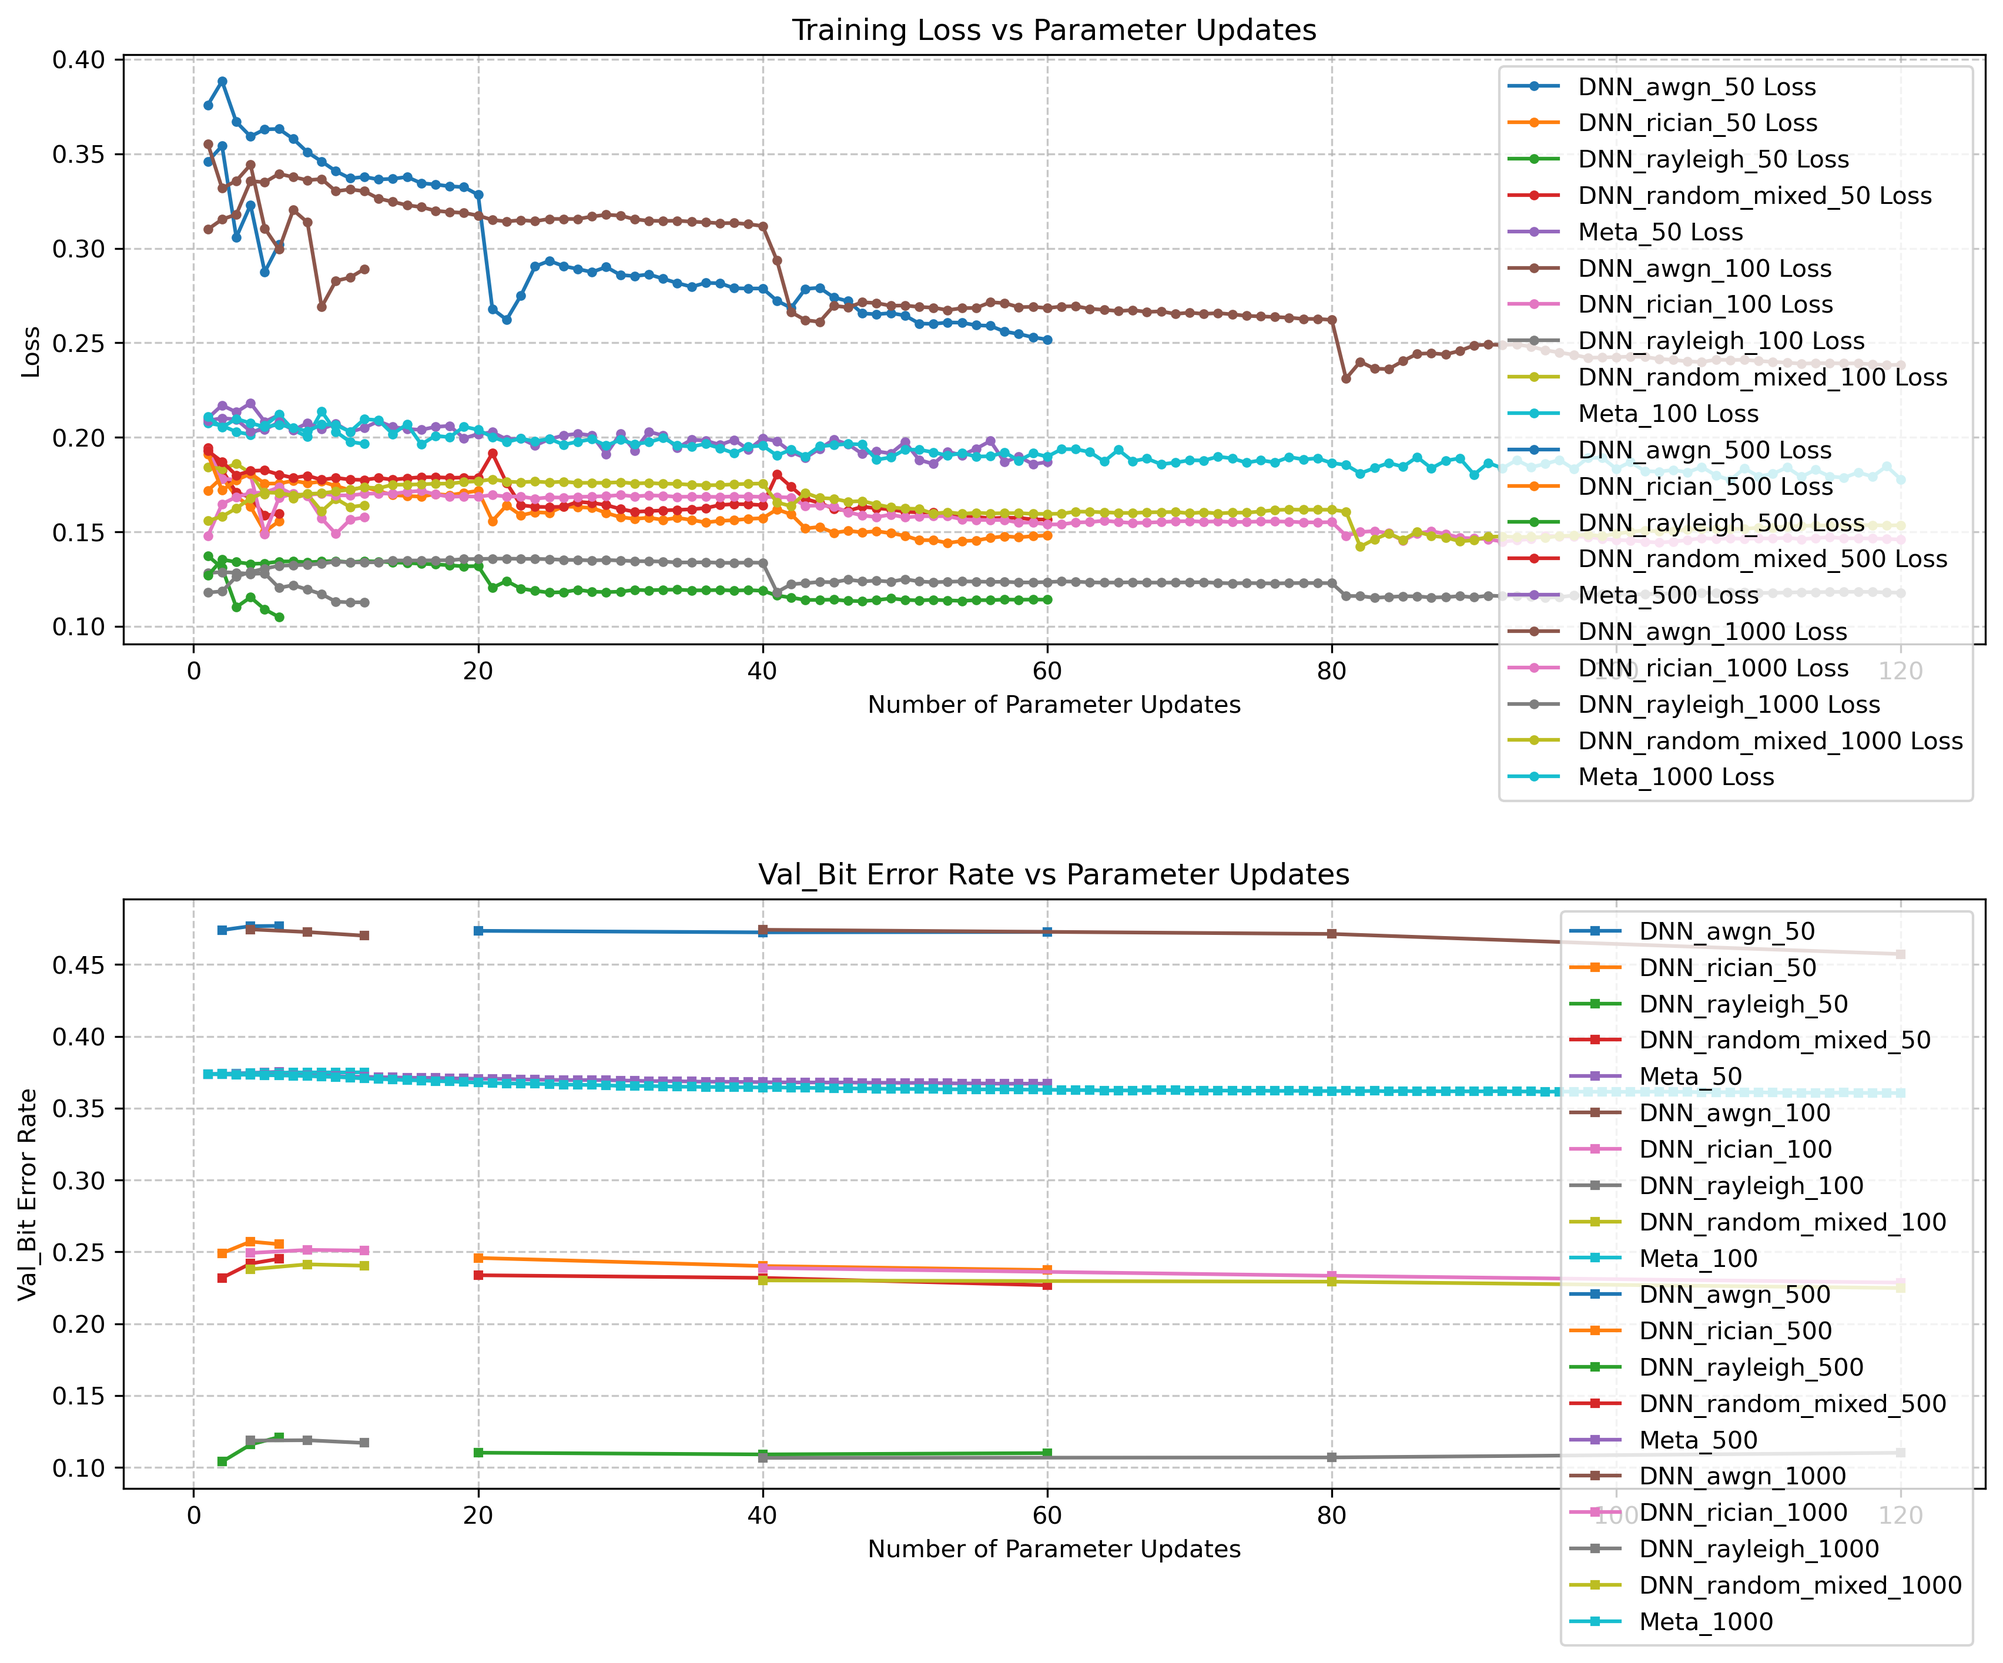
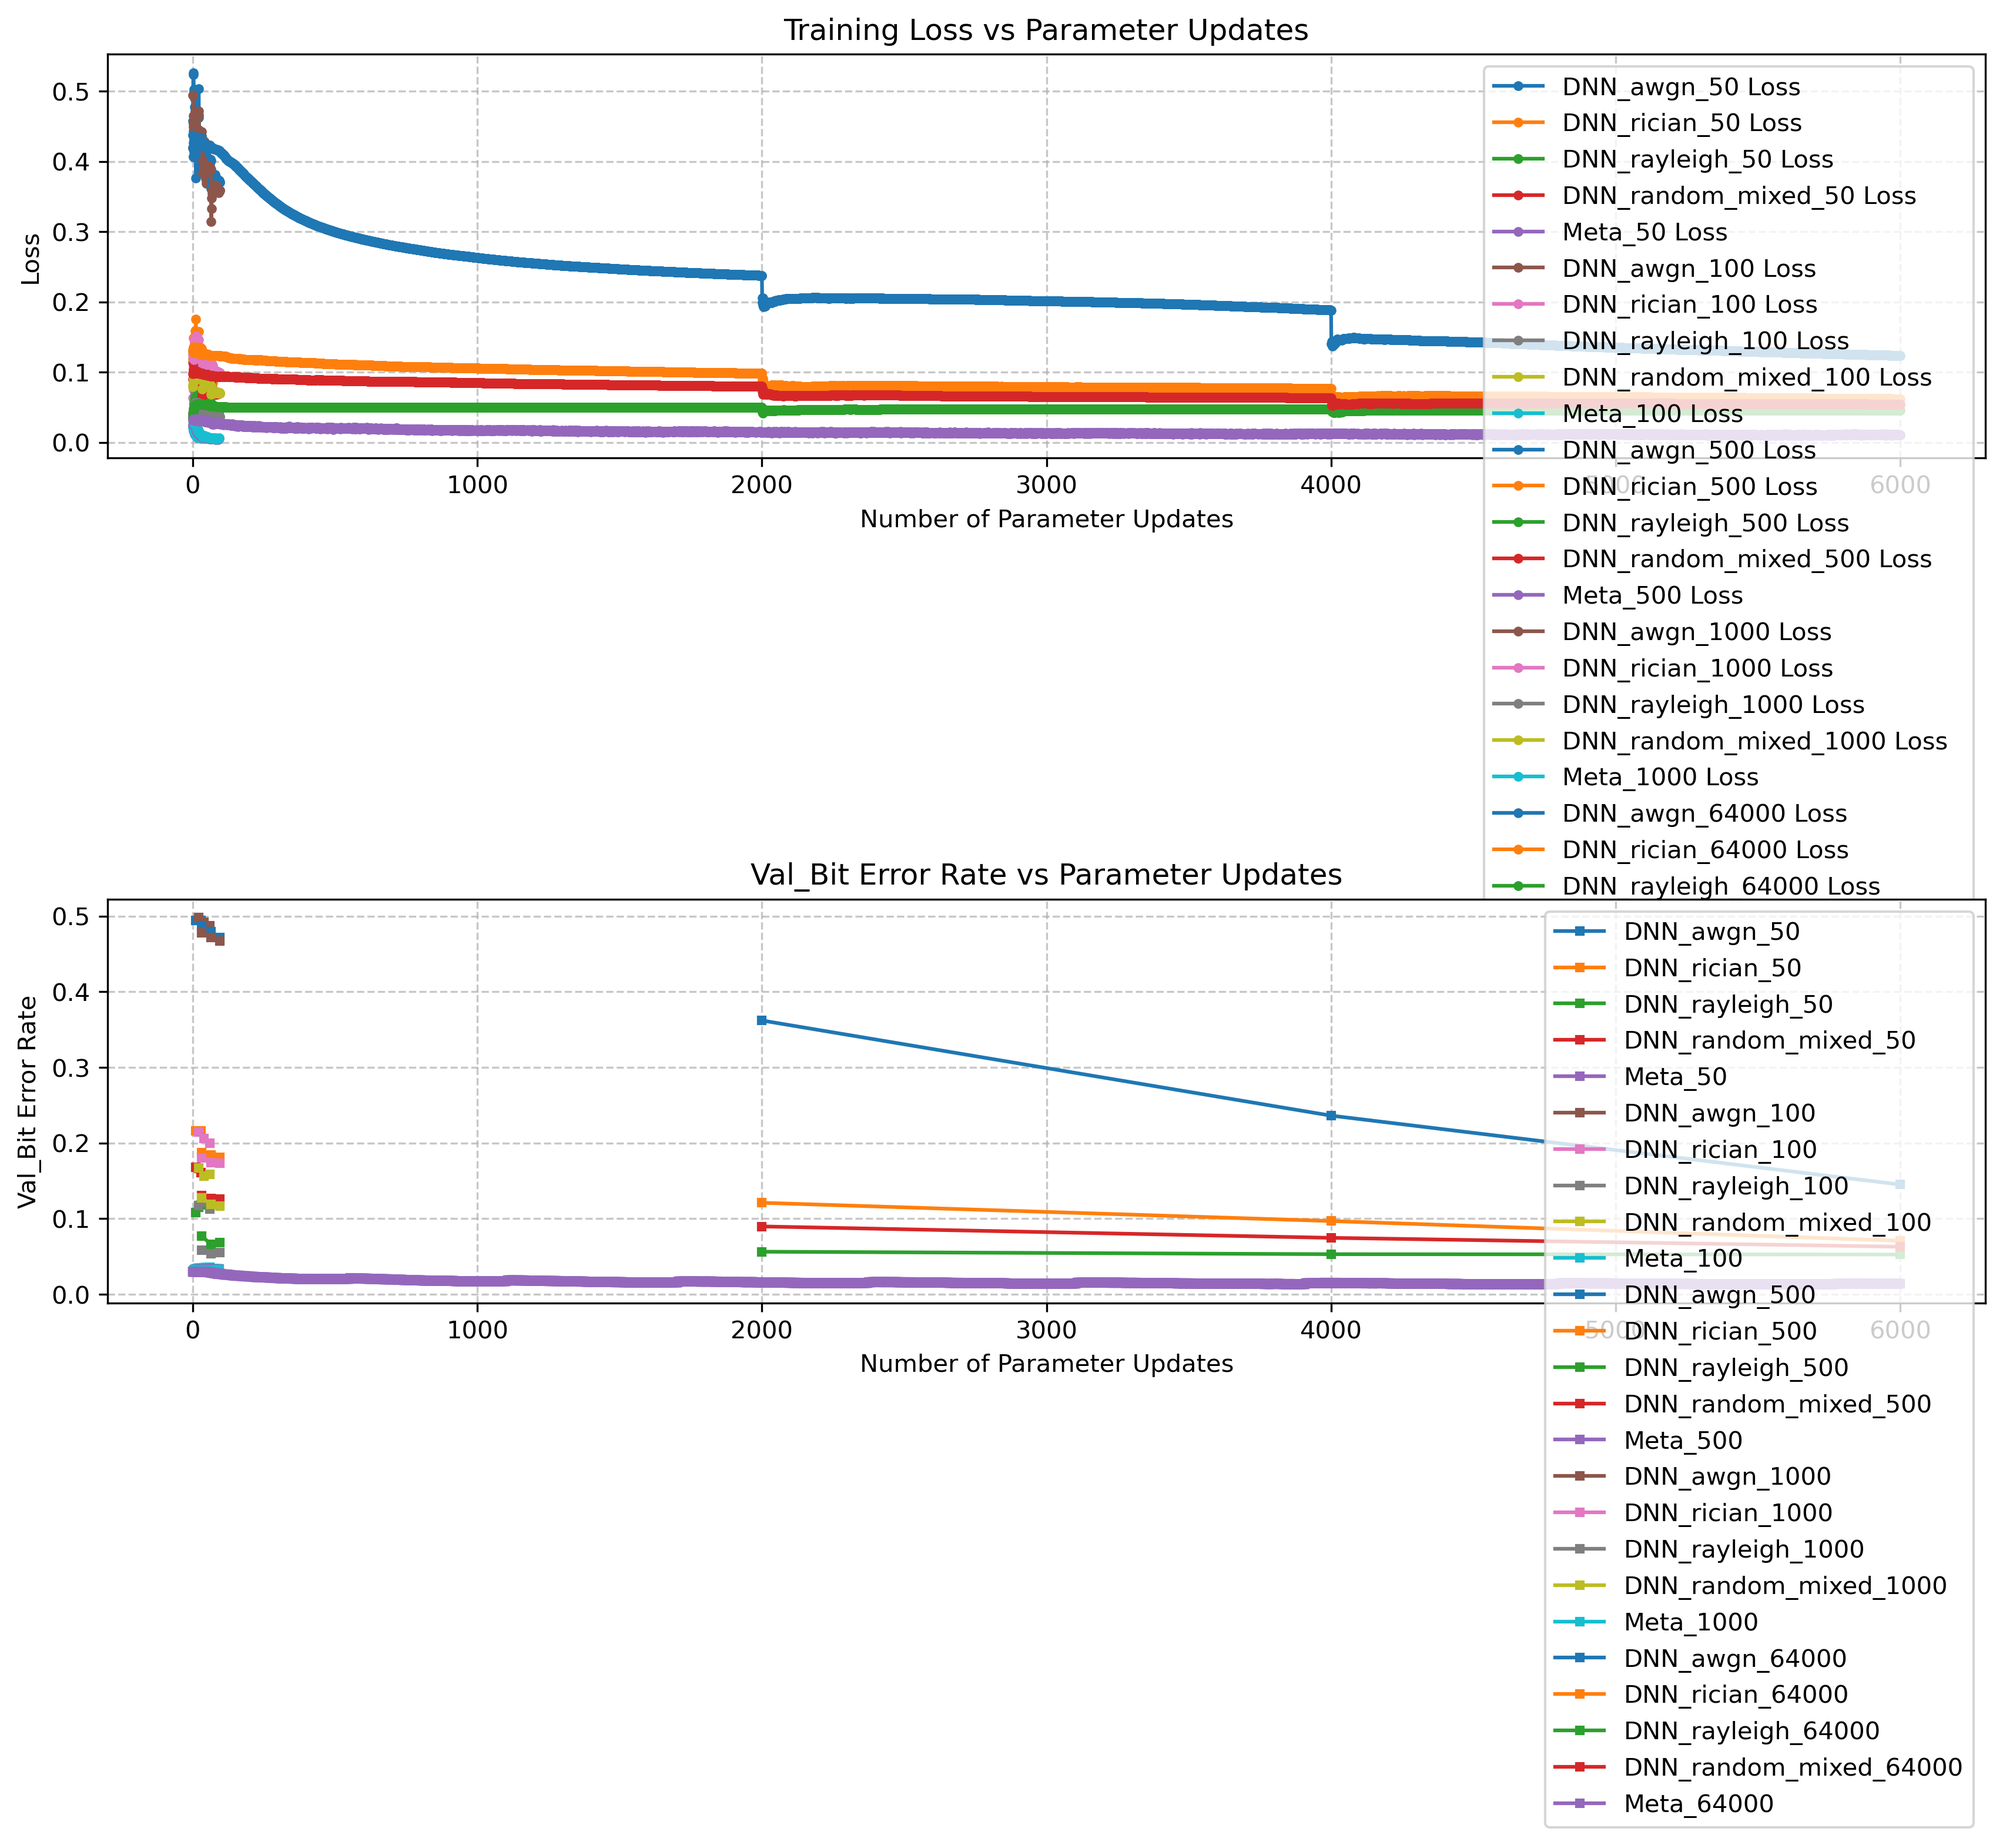
In FineTune phase, assign distinct batch size for each sample sizes

diff --git a/singal_detection_withOFDM.py b/singal_detection_withOFDM.py
@@ -662,7 +662,7 @@ if __name__ == "__main__":
     models = {}
     histories = {}
 
-    DNN_samples = 100000 # 5120 = 1600 updates
+    DNN_samples = 64000 # 5120 = 1600 updates
     DNN_epoch = 10
     DNN_batch_size = 32
     # Generate training data 
@@ -758,11 +758,17 @@ if __name__ == "__main__":
     # Generalization Testing phase
     print("\n=== 3GPP Generalization Testing Phase ===")
     MultiModelBCP.clear_data()
-    sample_sizes = [50,100,500,1000] #[50,100,500,1000,100k]
+    val_parameter_set = [
+        #(size,batch size)
+        (50,5),
+        (100,5),
+        (500,16),
+        (1000,32),
+        (64000,32)
+    ]
     x_3gpp_val, y_3gpp_val = simulator.generate_testing_dataset("3gpp", 10000)
     val_epoch = 3
-    val_batch_size = 25
-    for size in sample_sizes:
+    for size,val_batch_size in val_parameter_set:
 
         DNN_num_update= int((size/val_batch_size)*val_epoch)
         print(f"{size} set with {DNN_num_update} times updates")
